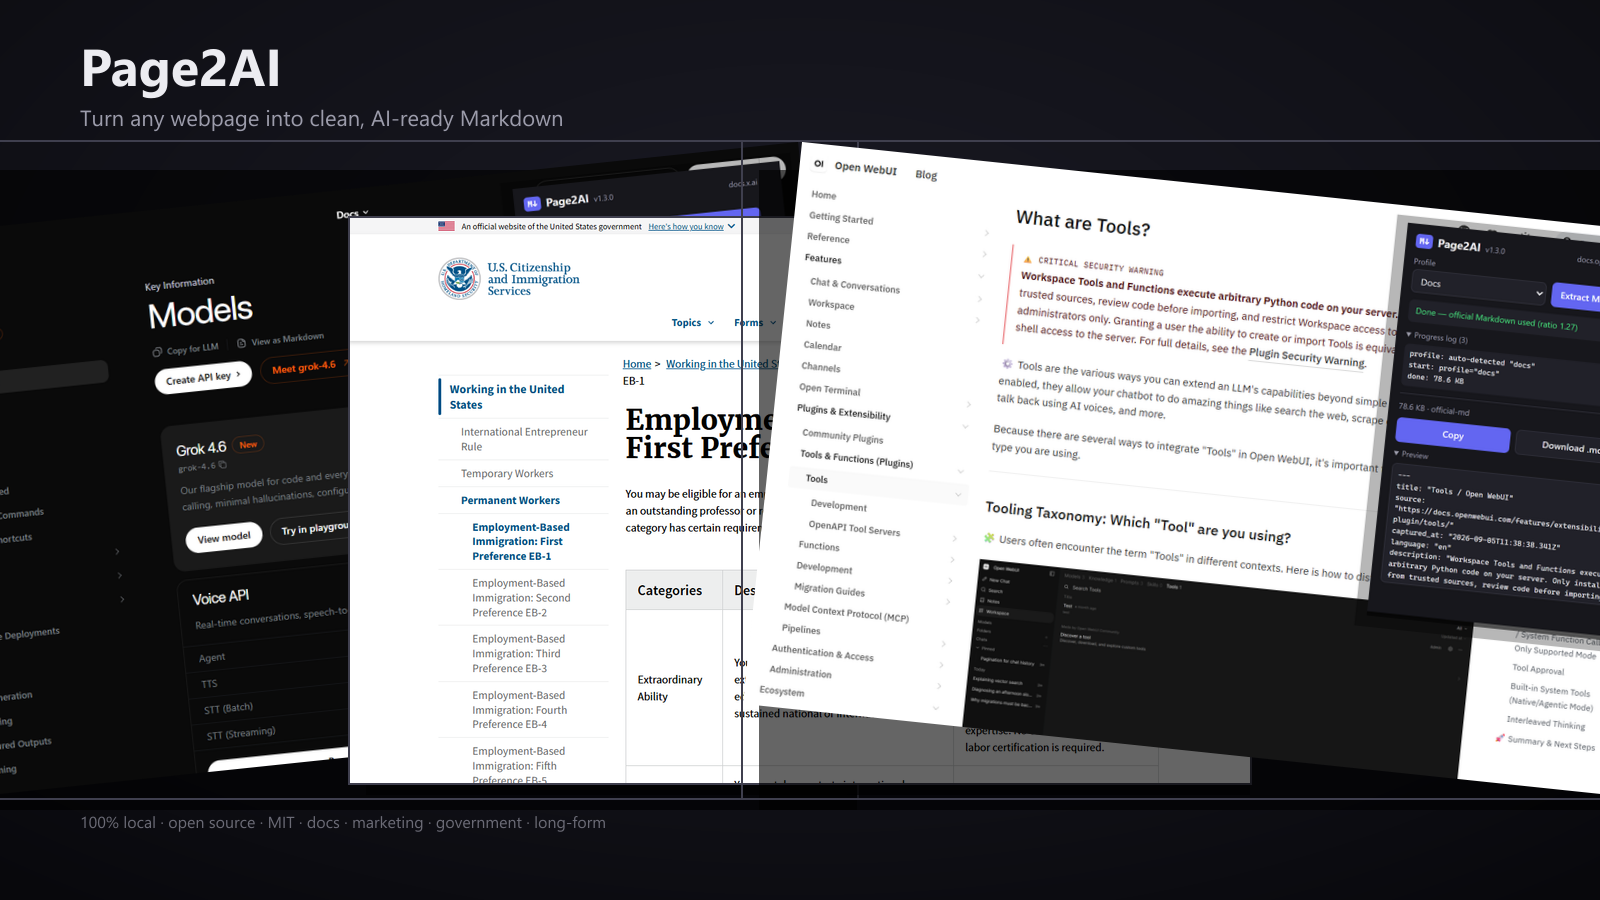
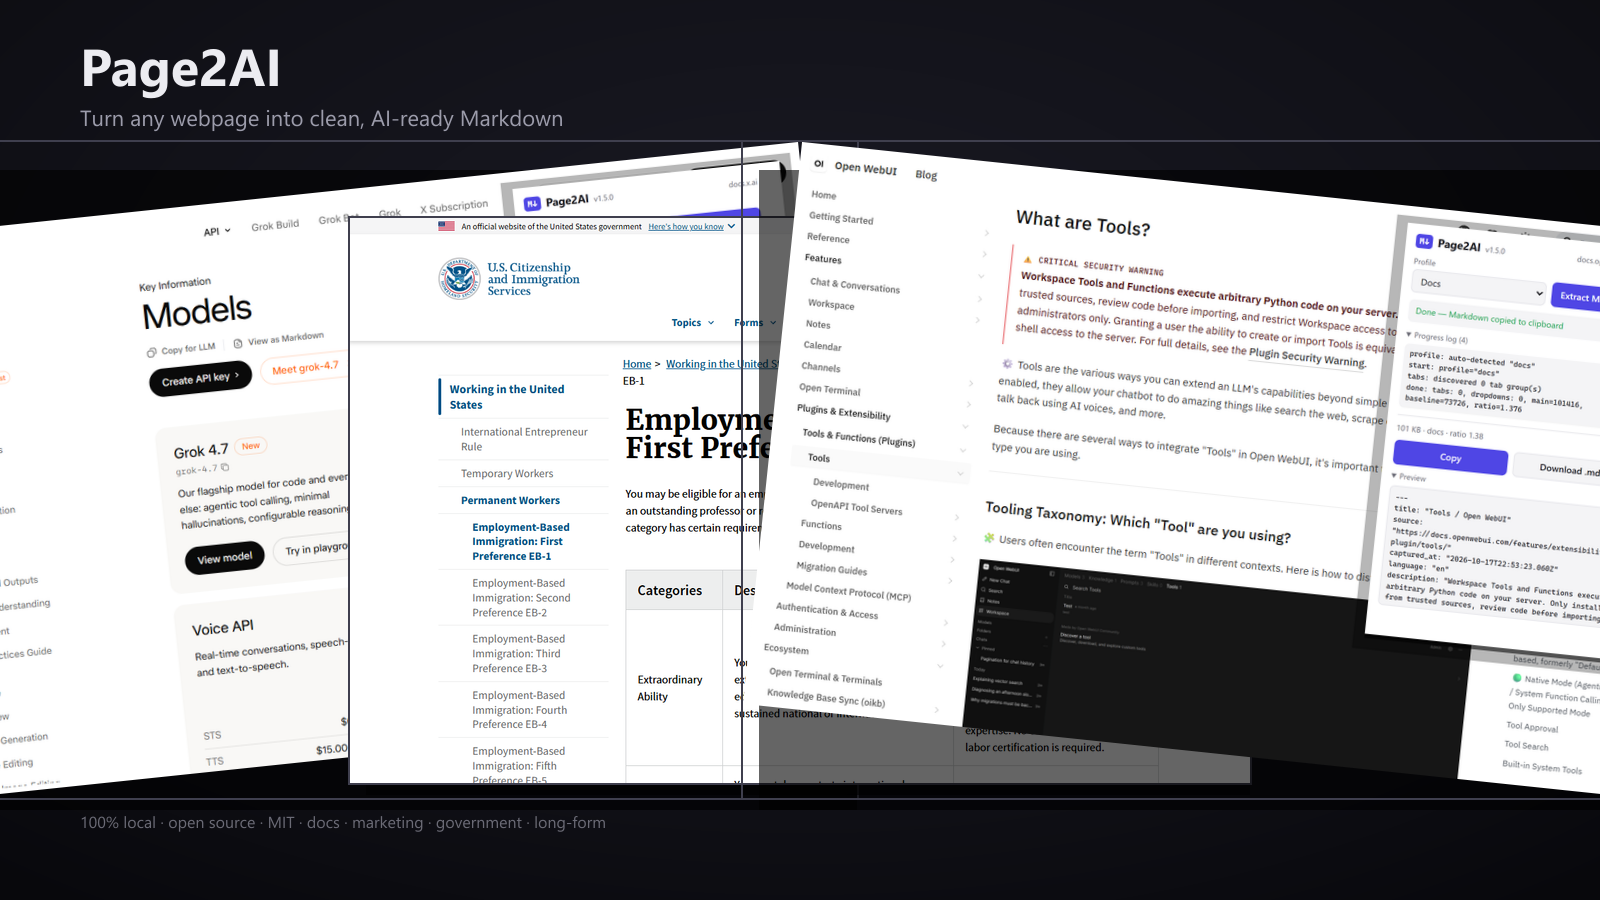
docs(store): the 1.5.0 listing change is in the dashboard; store PNGs without alpha
CHROMEWEBSTORE.md: section 1 holds the Detailed description the dashboard field
has since 2026-10-18 (the MDX bullet deleted, the llms.txt bullet replaced by
"Only the page you see", BL-49), submitted for review at 01:46 UTC together
with screenshots 1-3 from the 1.5.0 build; the "change for 1.5.0" section is
now the record of that change, section 7 the submission, section 6 the
Homepage URL the dashboard actually holds.

The dashboard takes "JPEG or 24-bit PNG (no alpha)". The captures were RGBA
with an alpha channel opaque everywhere: they are now RGB (0 pixels differ),
and gen-screenshots-real.mjs drops the channel itself. The dashboard serves
these three files byte for byte. docs-hero-1600x900.png is rebuilt from them
by gen-docs-hero.mjs; the old one showed v1.3.0 and "official Markdown used".

Claude-Session: https://claude.ai/code/session_014u1twqd622ih5kt59HyBib

Changed region(s): [[0.0, 0.1556, 0.5, 0.9022], [0.8438, 0.2489, 1.0, 0.8711], [0.4688, 0.4667, 0.5625, 0.8089]]

diff --git a/CHROMEWEBSTORE.md b/CHROMEWEBSTORE.md
@@ -1,9 +1,9 @@
 # CHROMEWEBSTORE.md: Page2AI on the Chrome Web Store
 
-> Last Updated: 2026-10-17. The store record for item `dlpaaijcnbbmlfeohlphjpnbbcnomnno`: what the
+> Last Updated: 2026-10-18. The store record for item `dlpaaijcnbbmlfeohlphjpnbbcnomnno`: what the
 > Developer Dashboard holds, field by field, and why each permission is requested.
-> Title, Summary and Detailed description were read from the public listing on 2026-10-17
-> (version 1.4.0, updated October 16, 2026). Until that day this file was `assets/store/listing.md`, the v1.0
+> Title and Summary were read from the public listing on 2026-10-17 (version 1.4.0, updated October 16,
+> 2026); the Detailed description is the dashboard field as saved on 2026-10-18 (T140). Until 2026-10-17 this file was `assets/store/listing.md`, the v1.0
 > submission draft, and its three text fields still held the v1.0 wording (now in section 8).
 > The file name is the one the Chrome team's `chrome-extensions` agent skill
 > (GoogleChrome/modern-web-guidance) keeps current whenever the extension changes.
@@ -37,7 +37,7 @@ _Best fit. Official examples include "document editors" and "tools to help users
 English (Worldwide)
 ```
 
-### Detailed description (dashboard field, live text on 2026-10-17)
+### Detailed description (dashboard field since 2026-10-18)
 ````
 Page2AI turns any webpage into a clean, AI-ready Markdown document with one click — ready to paste into your LLM, coding agent, or RAG pipeline.
 
@@ -48,8 +48,7 @@ WHAT MAKES IT DIFFERENT
 • Profile-aware extraction — auto-detects the site kind (docs, marketing, research, dashboard) and tunes the strategy per profile. Manual override in one click.
 • Tab & dropdown capture — pulls code from hidden tabs (Python vs TypeScript vs cURL vs …) with DOM-position-aware dedup, so you get the code from every tab, not just the active one.
 • Code blocks with language hints — ```python, ```js, ```bash preserved verbatim so LLMs read them correctly.
-• MDX / JSX post-processing — Mintlify components (<Note>, <CodeGroup>, <Tabs>, <AccordionGroup>) become plain Markdown.
-• llms.txt short path — if the site publishes an official .md alongside the page, Page2AI uses it directly.
+• Only the page you see — Page2AI converts the page in your tab and nothing else. It never swaps in the site's llms.txt or a Markdown copy, which can be older than the page.
 • Quality gate — post-extraction check on <pre> count vs a plain-text baseline; automatic fallback if under-extraction is detected.
 • Structured-data appendix — JSON-LD, OpenGraph, Microdata, Next.js __NEXT_DATA__ hoisted into a machine-readable appendix at the end.
 • Cached-result recovery — close the popup mid-run, reopen it, your result is waiting (badge shows ✓).
@@ -99,33 +98,26 @@ BUILT BY
 
 Igor Saevets, AI Expert and Entrepreneur.
 ````
-_3180 characters (limit 16,000). Plain text: the store does not render Markdown. This wording went in
-with the resubmission of 2026-09-07, after the keyword-spam rejection in section 8._
+_3125 characters (limit 16,000). Plain text: the store does not render Markdown. Saved in the dashboard and
+submitted for review on 2026-10-18 at 01:46 UTC (T140, section 7); until the review passes, the public listing
+shows the 2026-09-07 text with the two bullets named below. The rest is the wording of the 2026-09-07
+resubmission, after the keyword-spam rejection in section 8._
 
 ---
 
 
-### Detailed description: change for 1.5.0 (not in the dashboard yet)
+### Detailed description: the change for 1.5.0 (applied 2026-10-18)
 
-Since 1.5.0 the extension takes the content only from the page (BL-49, Igor 2026-10-17), so two bullets of the live
-text above are false for it. Change the Detailed description field in one dashboard session, once 1.5.0 is published:
+Since 1.5.0 the extension takes the content only from the page (BL-49, Igor 2026-10-17), so two bullets of the
+2026-09-07 text were false for it. T140 changed the saved dashboard field in place: it deleted the bullet that
+began `• MDX / JSX post-processing` (that clean-up ran only on the Markdown copies the extension no longer reads)
+and replaced the bullet that began `• llms.txt short path` with `• Only the page you see`. The SHA-256 of the field
+before and after each step matched the public text and the text above. Screenshots 1-3 were replaced in the same
+session (section 2): the old ones showed the label v1.3.0, and 2 and 3 the popup's `official-md` status line.
 
-1. Delete the bullet that begins `• MDX / JSX post-processing`: the clean-up it describes ran only on the Markdown
-   copies the extension no longer reads.
-2. Replace the bullet that begins `• llms.txt short path` with this line:
-
-````text
-• Only the page you see — Page2AI converts the page in your tab and nothing else. It never swaps in the site's llms.txt or a Markdown copy, which can be older than the page.
-````
-
-3. Screenshots 2 and 3 in the dashboard show the popup's `official-md` status line, and all three show the label
-   v1.3.0. New captures of the same pages from the 1.5.0 build are in `assets/store/` (T139, by
-   `scripts/gen-screenshots-real.mjs`, which now takes the label from the built manifest). Upload them in the same
-   session, in the same order.
-
-The PRIVACY paragraph of the description stays as it is: it is true of 1.5.0. It was not complete for 1.4.0,
-which asked the site for `llms.txt` and a Markdown copy of the page (PRIVACY.md, Network requests), so do not
-quote it as a description of 1.4.0 (T136 panel, grokbuild).
+The PRIVACY paragraph of the description is true of 1.5.0. It was not complete for 1.4.0, which asked the site
+for `llms.txt` and a Markdown copy of the page (PRIVACY.md, Network requests), so do not quote it as a
+description of 1.4.0 (T136 panel, grokbuild).
 
 ## 2. Graphic assets
 
@@ -147,10 +139,14 @@ Content: brand mark + tagline "Any webpage -> clean, AI-ready Markdown"
 ### Screenshots (1 to 5, at least 1 REQUIRED)
 ```
 Files: assets/store/screenshot-{1..N}-1280x800.png
-Size: 1280x800 PNG (or 640x400)
+Size: 1280x800 (or 640x400), JPEG or 24-bit PNG with no alpha channel (the dashboard's rule)
+In the dashboard since 2026-10-18: screenshot-1-uscis-eb1, -2-openwebui-tools, -3-xai-grok-45, in that order
 Orientation: landscape only (portrait not supported by CWS)
 Content: real Page2AI popup + real extraction result on real docs pages
 ```
+_`scripts/gen-screenshots-real.mjs` captures them from the built extension and takes the popup's version label
+from its manifest. Since T140 it writes RGB: until then its PNGs carried an alpha channel (opaque everywhere),
+which the dashboard's rule excludes. The dashboard serves the files in `assets/store` byte for byte._
 
 ### Marquee promo tile (OPTIONAL)
 ```
@@ -264,9 +260,10 @@ _Valid choice for a free, hobbyist, open-source utility with no monetization. Go
 
 ### Homepage URL
 ```
-https://chromewebstore.google.com/detail/dlpaaijcnbbmlfeohlphjpnbbcnomnno
+https://github.com/igorsaevets/page2ai-extension
 ```
-_After CWS approval, points listing to itself. Before approval, use the GitHub repo URL._
+_The dashboard field as read on 2026-10-18 (T140). Until then this file held the v1.0 plan to point it at the
+listing itself._
 
 ### Support URL
 ```
@@ -295,8 +292,11 @@ Skip for v1.0. Requires domain ownership via Google Search Console TXT record. O
 | 1.0.2 | 2026-07-20 | Published 2026-07-30, the first approved version |
 | 1.0.1, 1.0.0 | 2026-07-20 | Not recorded here |
 
-Listing-only changes: a rewrite was rejected on 2026-09-05 (section 8); the text now live was
-resubmitted on 2026-09-07 and approved.
+Listing-only changes: a rewrite was rejected on 2026-09-05 (section 8); the next text was resubmitted on
+2026-09-07 and approved. On 2026-10-18 at 01:46 UTC (T140) the Detailed description change for 1.5.0
+(section 1) and screenshots 1-3 from the 1.5.0 build were submitted for review with automatic publishing; at
+01:47 UTC the API reported «Published revision: PUBLISHED 1.5.0 at 100%» and «Submitted revision:
+PENDING_REVIEW 1.5.0 at 100%».
 
 ## 8. Review notes and rejection history
 
@@ -330,7 +330,7 @@ Before clicking **Submit for Review**, confirm:
 - [ ] All three certifications checked (section 3)
 - [ ] Icon 128x128 uploaded (section 2)
 - [ ] Small promo tile 440x280 uploaded (section 2)
-- [ ] At least one screenshot 1280x800 uploaded (section 2)
+- [ ] At least one screenshot 1280x800, JPEG or 24-bit PNG without alpha, uploaded (section 2)
 - [ ] Trader status declared (section 5)
 - [ ] Category set to Workflow & Planning (section 1)
 
